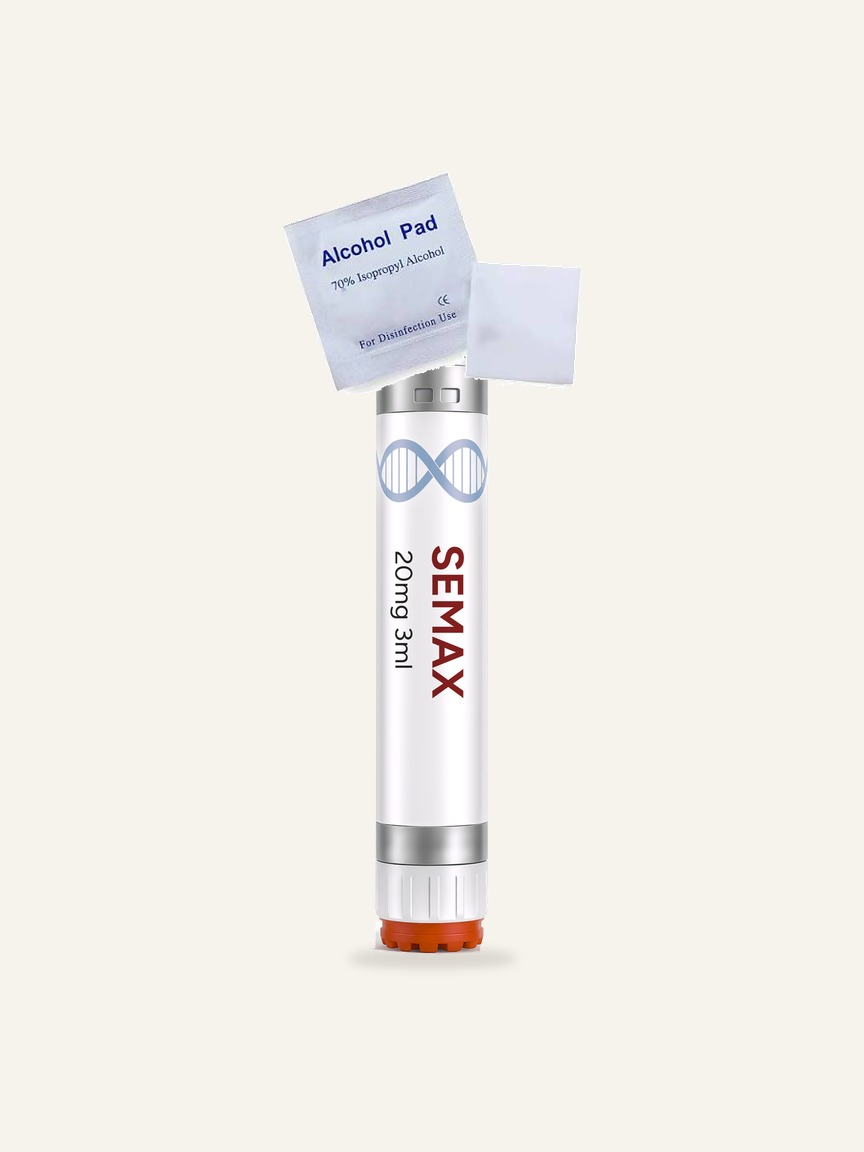
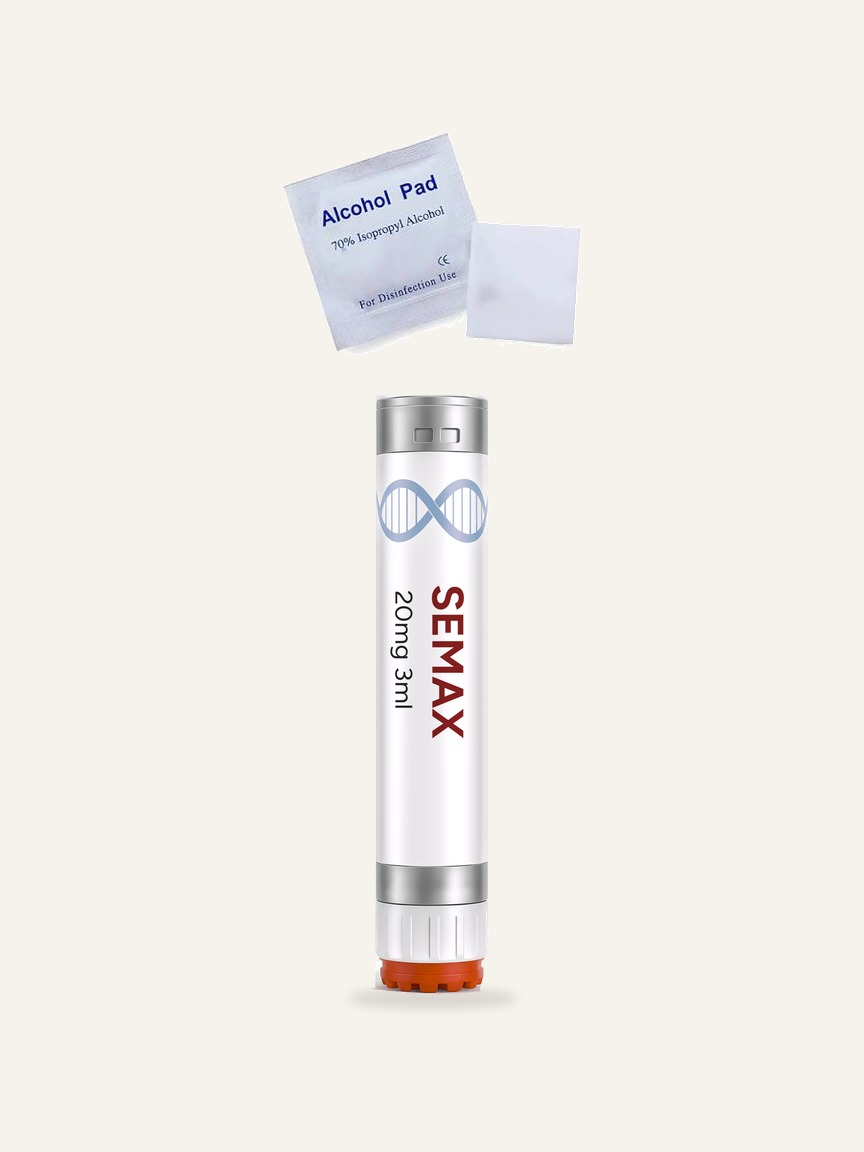
Lift the alcohol pad clear of the pen on the swab step.
The packet and pad sit above the open top with a gap, so they no longer rest on the silver collar.

Changed region(s): [[0.3125, 0.0938, 0.6875, 0.6562], [0.4375, 0.6875, 0.5625, 0.875]]

diff --git a/research/peptide-pen-guide.html b/research/peptide-pen-guide.html
@@ -191,7 +191,7 @@
         </li>
 
         <li class="bg-white rounded-2xl border border-sand-200 overflow-hidden">
-          <img src="../assets/pen-guide/pen-step-2.jpg" alt="An alcohol pad swabbing the open top of the Semax research pen." width="864" height="1152" class="w-full max-w-md mx-auto h-auto" loading="lazy">
+          <img src="../assets/pen-guide/pen-step-2.jpg" alt="An alcohol pad held above the open top of the Semax research pen." width="864" height="1152" class="w-full max-w-md mx-auto h-auto" loading="lazy">
           <div class="p-6">
             <h2 class="text-2xl font-semibold text-navy-900">2. Swab the pen top with an alcohol pad</h2>
             <p class="mt-3">Swab the open top. Let the alcohol dry before the tip goes on.</p>
